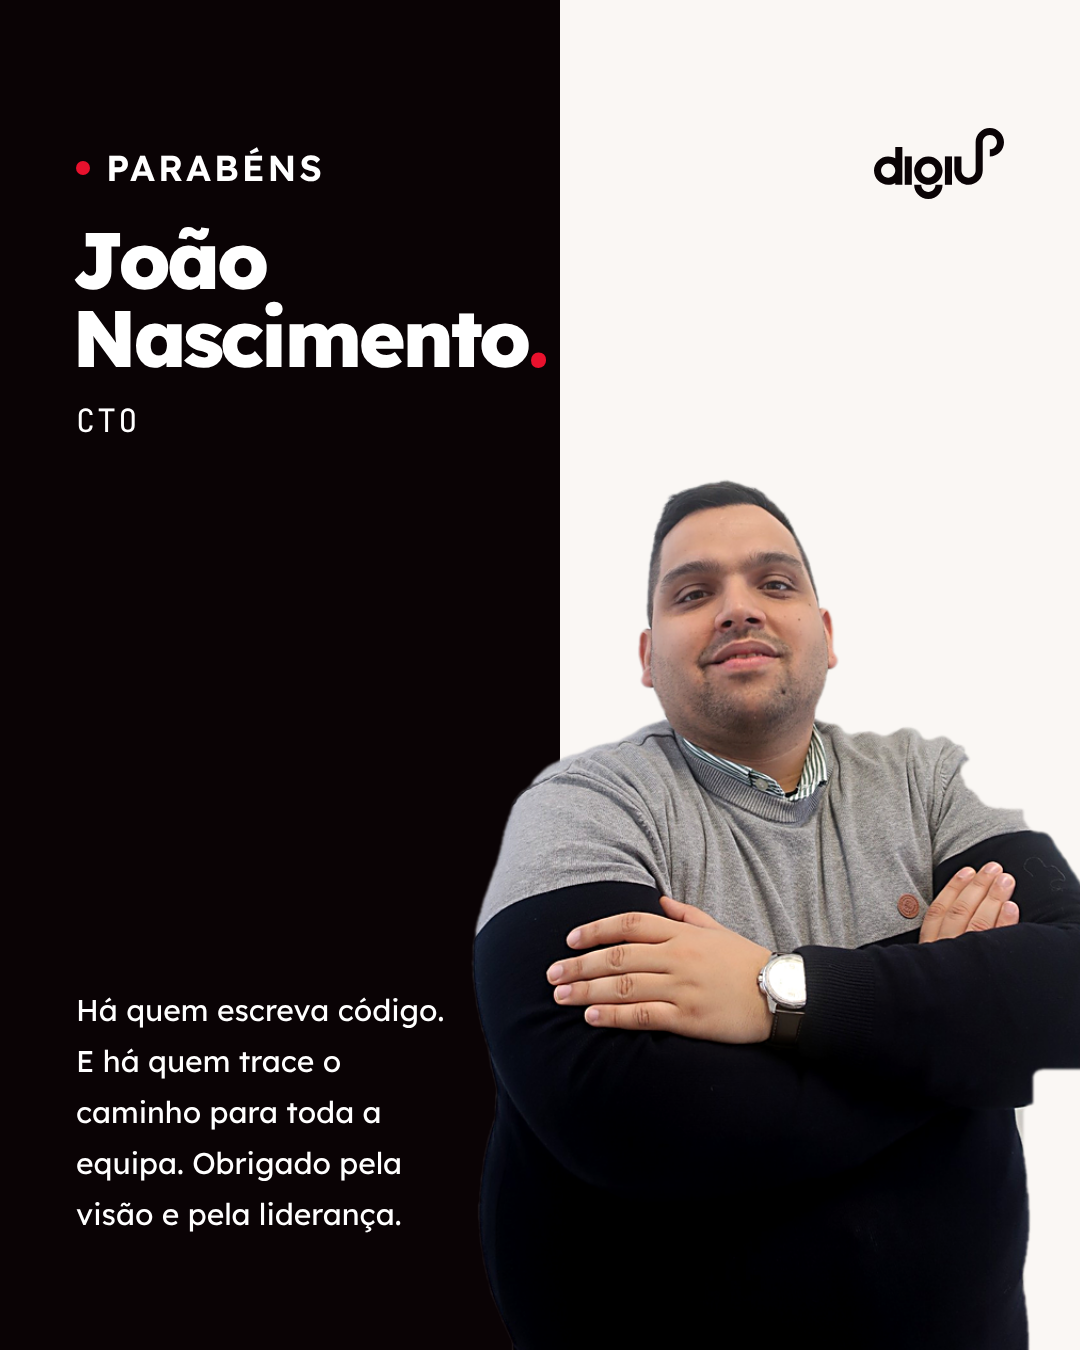
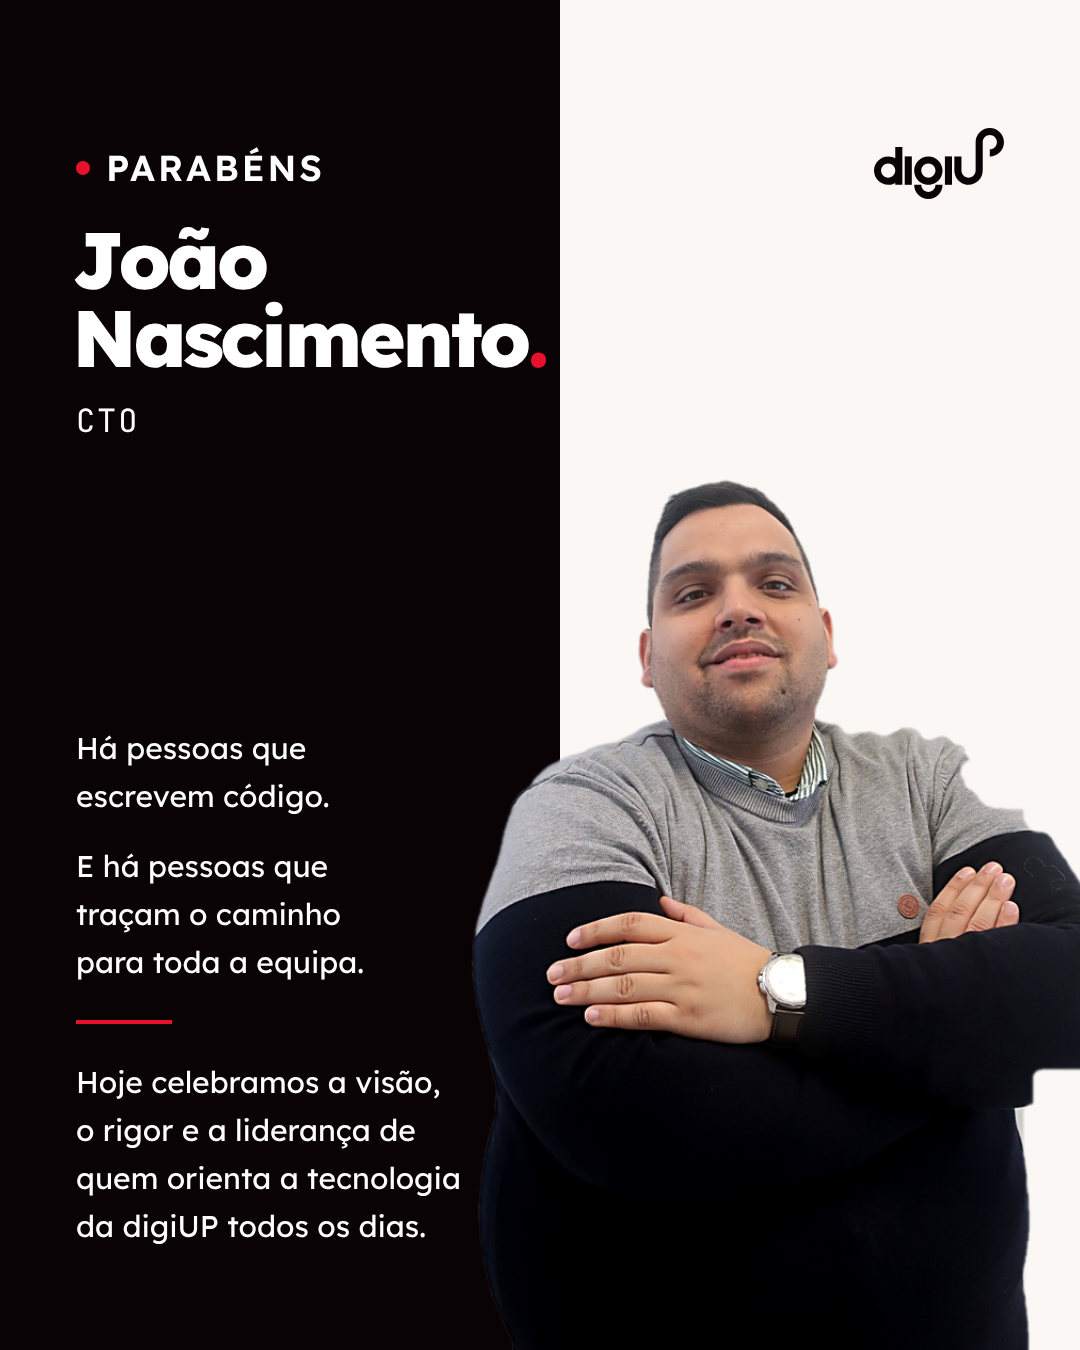
Aniversário do João (dividido): texto longo do post original
Claude-Session: https://claude.ai/code/session_0173GtUhSHhHFQaxLRUGv3dG

Changed region(s): [[0.0611, 0.5289, 0.4278, 0.9333]]

diff --git a/aniversario-joao/post-dividido/carrossel.html b/aniversario-joao/post-dividido/carrossel.html
@@ -24,7 +24,12 @@ body{background:#17181a;font-family:var(--du-font-sans);padding:56px}
     <div style="margin-top:28px;font-family:var(--du-font-mono);font-size:32px;letter-spacing:.06em;line-height:1">CTO</div>
   </div>
 
-  <p class="abs" style="left:76px;bottom:110px;width:380px;color:var(--du-white);font-size:30px;line-height:1.7">Há quem escreva código. E&nbsp;há quem trace o caminho para toda a equipa. Obrigado pela visão e pela liderança.</p>
+  <div class="abs" style="left:76px;bottom:100px;width:400px;color:var(--du-white);font-size:30px;line-height:1.6;text-wrap:balance">
+    <p style="text-wrap:balance">Há pessoas que escrevem código.</p>
+    <p style="margin-top:22px;text-wrap:balance">E&nbsp;há pessoas que traçam o caminho para toda a equipa.</p>
+    <div aria-hidden="true" style="width:96px;height:4px;background:var(--du-red);margin:34px 0"></div>
+    <p style="text-wrap:balance">Hoje celebramos a visão, o rigor e a liderança de quem orienta a tecnologia da digiUP todos os dias.</p>
+  </div>
 </section>
 </body>
 </html>
